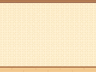
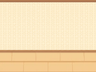
v3.28.1: suelo del salón más alto
Claude-Session: https://claude.ai/code/session_01DEGaingf517oFW7peCpSen

Changed region(s): [[0.0, 0.6944, 1.0, 0.9444], [0.0, 0.0278, 1.0, 0.0556]]

diff --git a/docs/sw.js b/docs/sw.js
@@ -4,7 +4,7 @@
    · Web Push: muestra el aviso salvo que la app esté a la vista.
    · Al tocar un aviso enfoca (o abre) la app.
    ========================================================================== */
-const VERSION = 'limagochi-v3.28.0';
+const VERSION = 'limagochi-v3.28.1';
 const FILES = [
   './', 'index.html', 'style.css', 'manifest.json',
   'sprites.js', 'items.js', 'config.js', 'audio.js', 'world.js', 'notify.js', 'bugs.js', 'forms2.js', 'progress.js', 'guide.js', 'backup.js', 'lib/qrcode.js', 'mail.js', 'visit.js', 'minigames.js', 'games2.js', 'studio.js', 'kitchen.js', 'school.js', 'voice.js', 'first.js', 'game.js',

diff --git a/tools/build_bg.py b/tools/build_bg.py
@@ -10,6 +10,7 @@ OUT = os.path.join(os.path.dirname(os.path.abspath(__file__)), '..', 'docs', 'bg
 os.makedirs(OUT, exist_ok=True)
 # franjas (origen 0..765 -> destino 0..72) para alinear suelo y valla con los muebles del juego
 BANDS = {
+    'salon':   [(0, 705, 0, 50), (705, 725, 50, 53), (725, 765, 53, 72)],        # suelo más alto (hasta el 70 % de la pantalla)
     'estudio': [(0, 500, 0, 42), (500, 765, 42, 72)],
     'cocina':  [(0, 570, 0, 45), (570, 612, 45, 49), (612, 765, 49, 72)],
     'jardin':  [(0, 345, 0, 29), (345, 525, 29, 38), (525, 765, 38, 72)],

diff --git a/README.md b/README.md
@@ -132,3 +132,6 @@ Mira `worker/README.md`: el servidor de avisos también funciona gratis como Clo
 - 📺 **Tele nueva** (apagada y encendida, `python3 tools/build_tv.py tv_off.png tv_on.png`): encendida, las filas de píxeles de la pantalla se desplazan y una franja de luz la recorre; suena una melodía suave y corta mientras está encendida y la ves en el salón (respeta el botón de sonido).
 - ➖ **Se elimina el modo LCD** (botón 🎨, función y guardado en las copias; las copias antiguas se importan igual). El pixel fino sigue en Ajustes.
 - Pruebas: 25 escenarios (nuevos: fondos y sin modo LCD, playa con gafas, tele animada).
+
+## v3.28.1
+- El suelo del salón empieza más arriba (al 70 % de la pantalla en lugar del 92 %): los muebles quedan apoyados sobre él.
